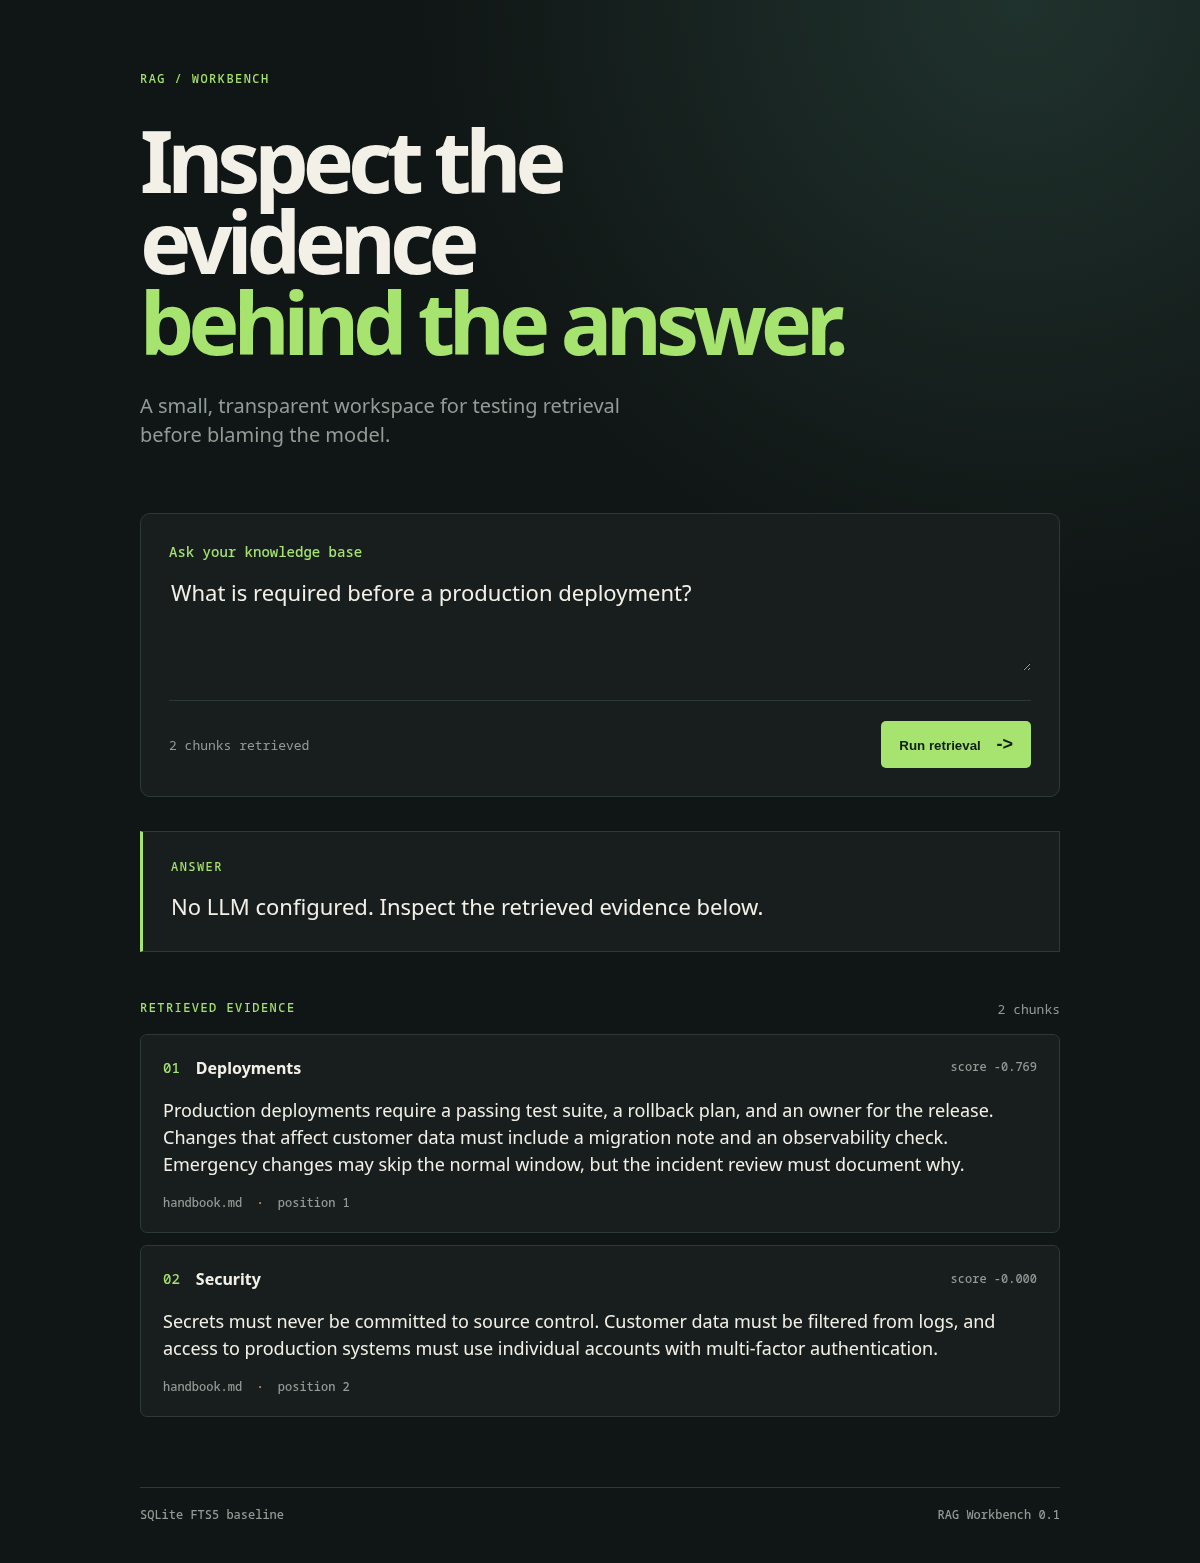
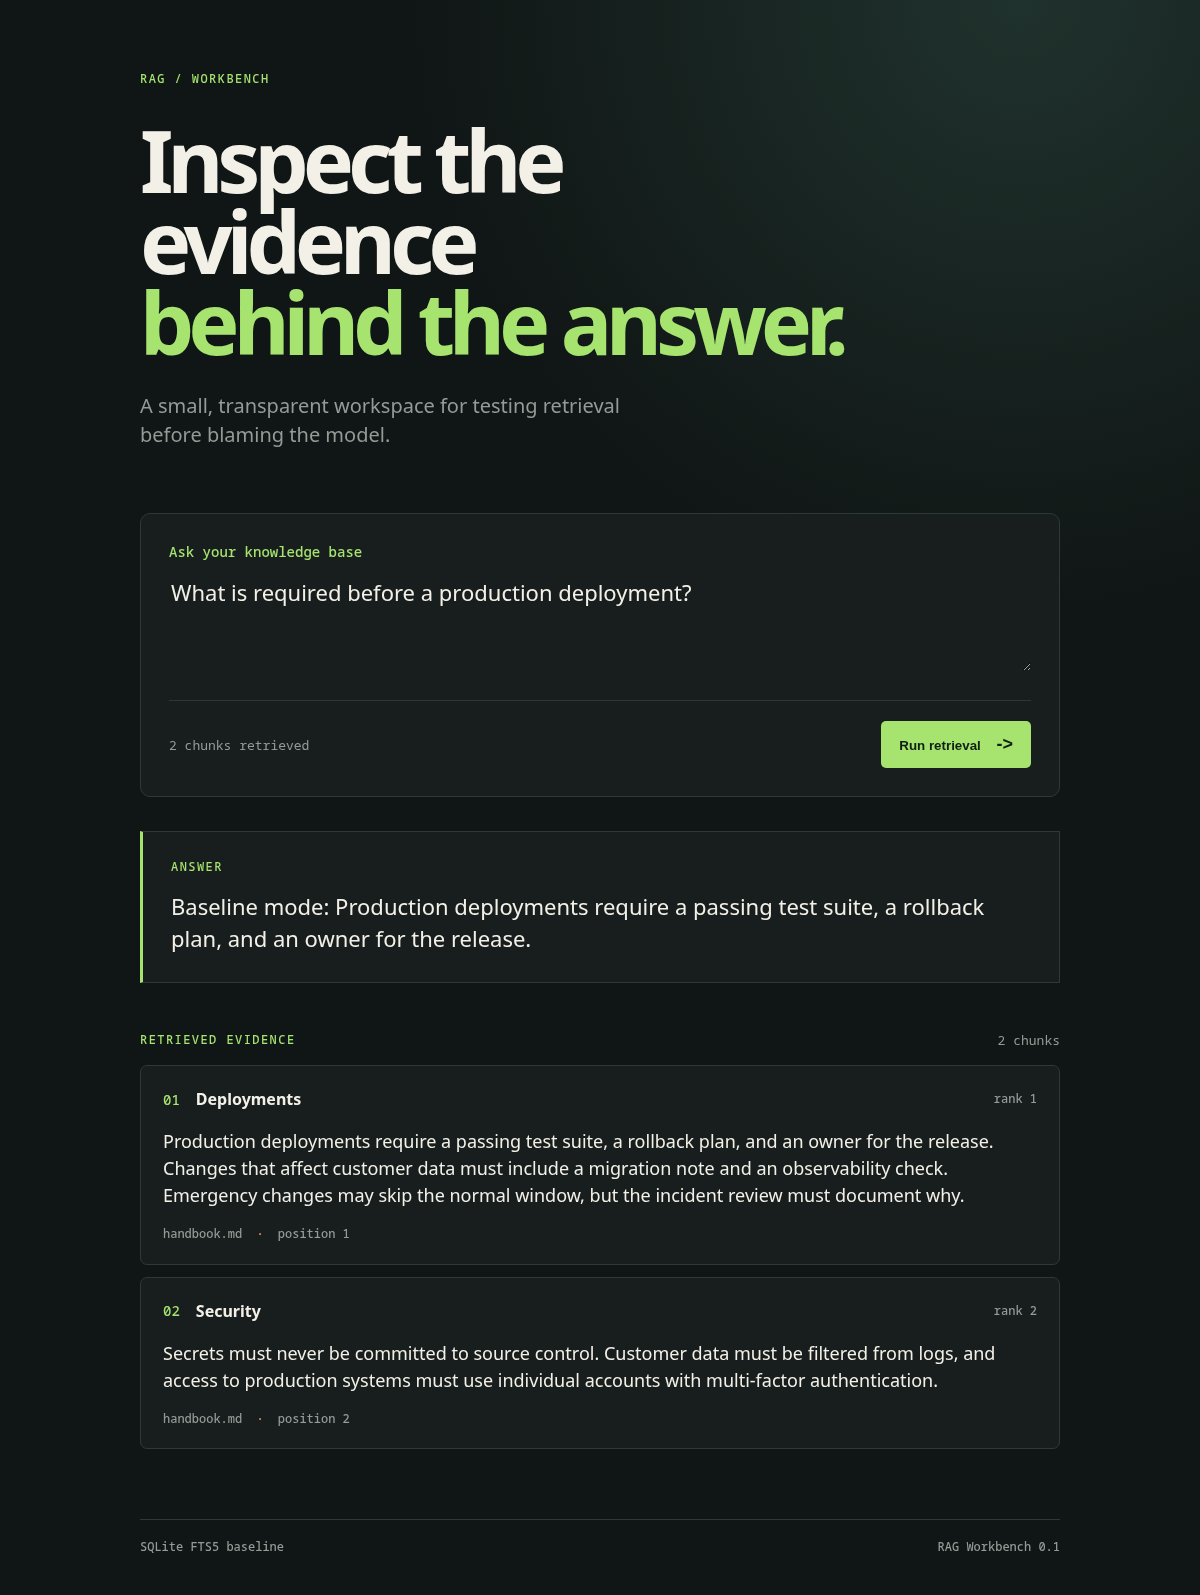
Clarify baseline answers in UI

diff --git a/web/app.js b/web/app.js
@@ -16,7 +16,7 @@ function renderEvidence(items) {
   count.textContent = `${items.length} chunk${items.length === 1 ? '' : 's'}`;
   evidence.innerHTML = items.length ? items.map((item, index) => `
     <article class="evidence-card">
-      <div class="card-top"><span>0${index + 1}</span><b>${escapeHtml(item.section)}</b><small>score ${item.rank.toFixed(3)}</small></div>
+      <div class="card-top"><span>0${index + 1}</span><b>${escapeHtml(item.section)}</b><small>rank ${index + 1}</small></div>
       <p>${escapeHtml(item.text)}</p>
       <div class="source">${escapeHtml(item.title)} <span>·</span> position ${item.position}</div>
     </article>

diff --git a/src/rag_workbench/generator.py b/src/rag_workbench/generator.py
@@ -2,6 +2,7 @@
 
 import json
 import os
+import re
 from urllib.request import Request, urlopen
 
 
@@ -9,7 +10,10 @@ def generate_answer(question: str, results: list[dict]) -> str:
     """Generate a grounded answer when LLM_BASE_URL is configured."""
     base_url = os.getenv("LLM_BASE_URL")
     if not base_url:
-        return "No LLM configured. Inspect the retrieved evidence below."
+        if not results:
+            return "Baseline mode: no matching evidence was found."
+        first_sentence = re.split(r"(?<=[.!?])\s+", results[0]["text"].strip())[0]
+        return f"Baseline mode: {first_sentence}"
 
     context = "\n\n".join(
         f"[{item['title']} / {item['section']}] {item['text']}" for item in results

diff --git a/tests/test_generator.py b/tests/test_generator.py
@@ -1,0 +1,13 @@
+from rag_workbench.generator import generate_answer
+
+
+def test_baseline_answer_is_explicitly_extractive():
+    answer = generate_answer(
+        "What is required before deployment?",
+        [{"text": "A passing test suite is required. A rollback plan is also required."}],
+    )
+    assert answer == "Baseline mode: A passing test suite is required."
+
+
+def test_baseline_answer_handles_missing_evidence():
+    assert generate_answer("unknown", []) == "Baseline mode: no matching evidence was found."
